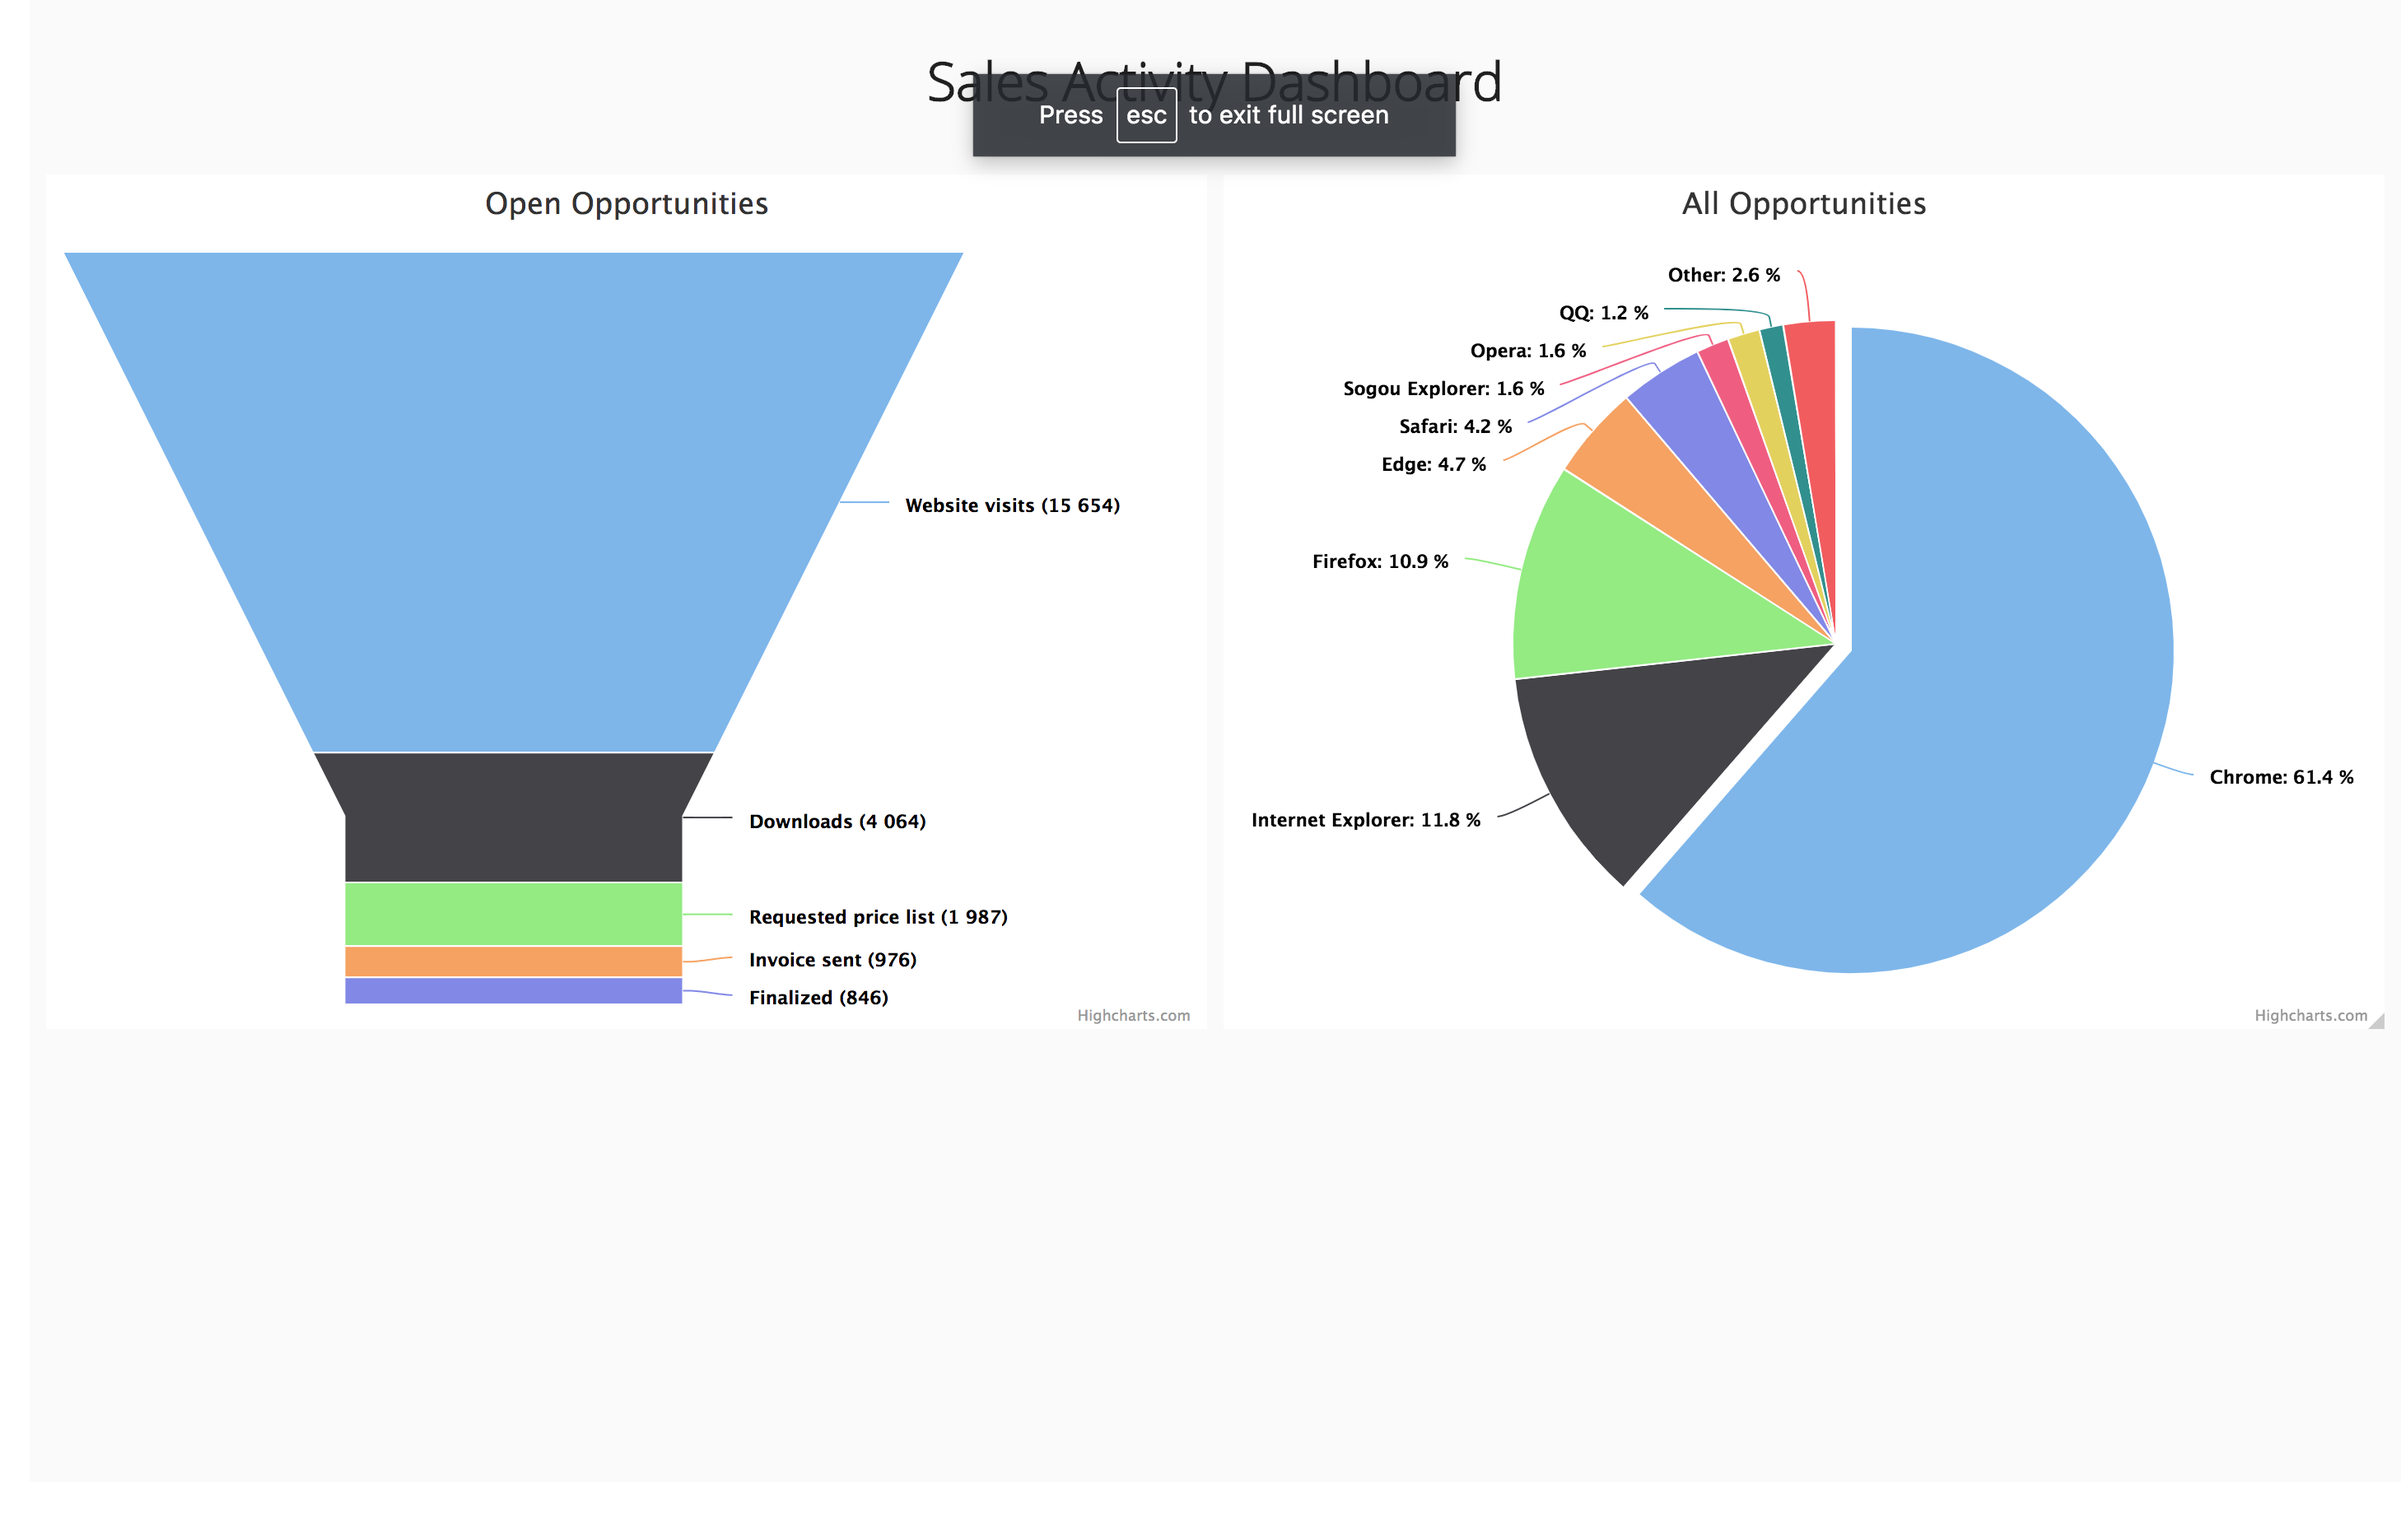
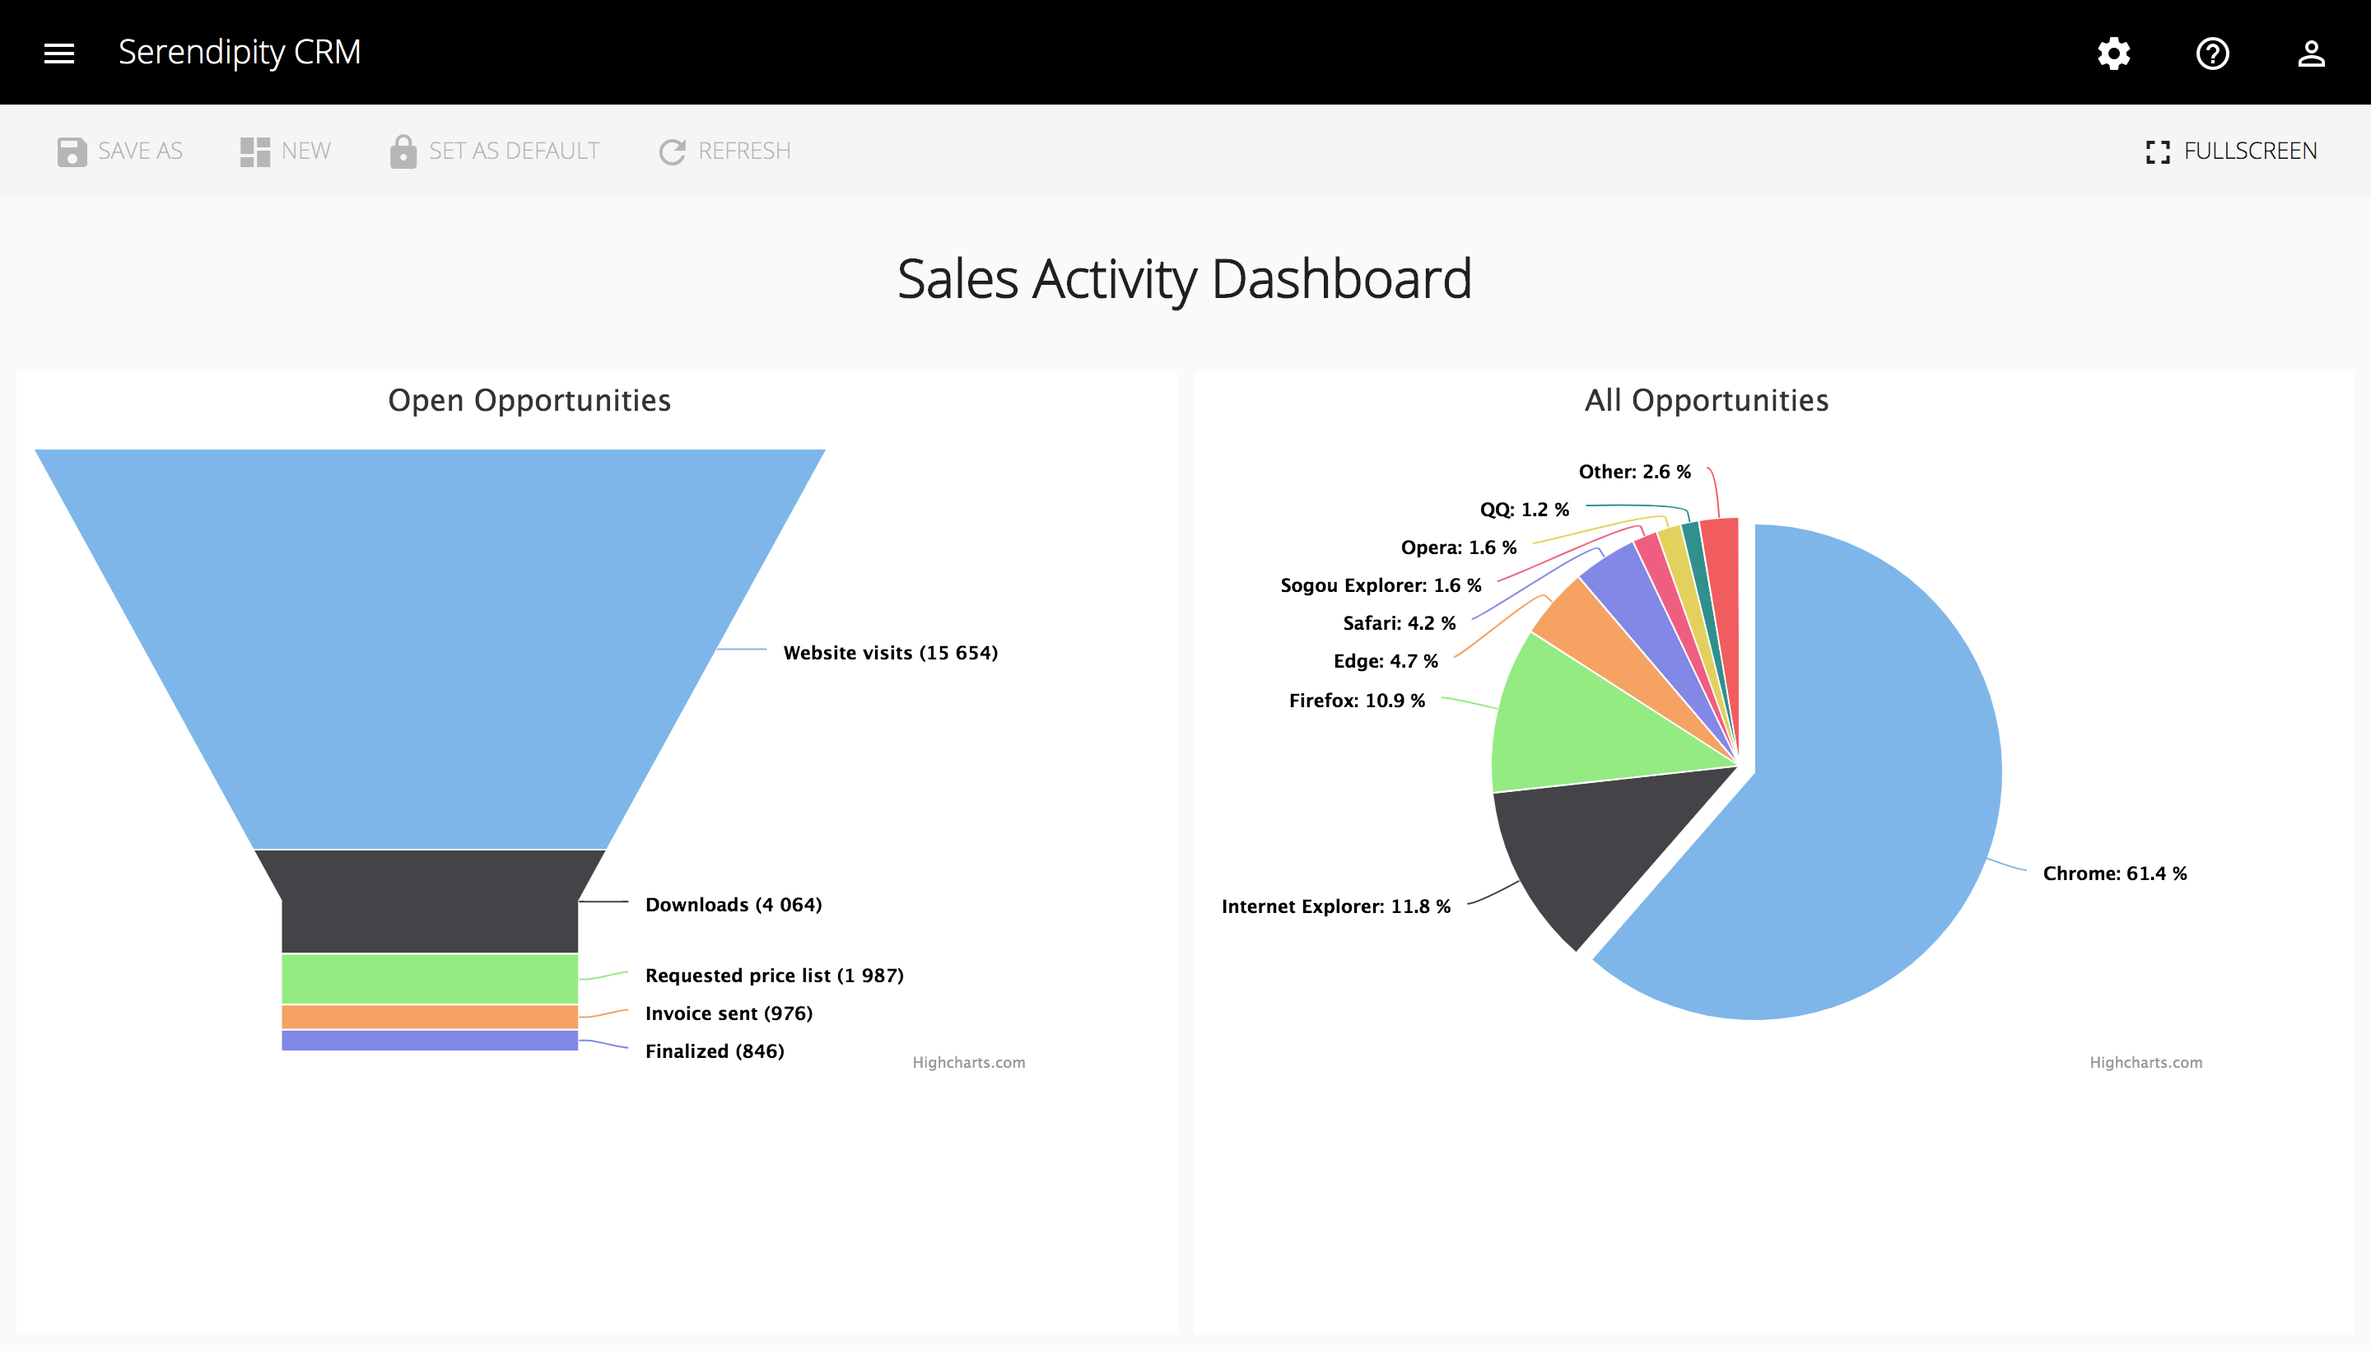
Updated the Dashboard Widgets library

diff --git a/README.md b/README.md
@@ -48,10 +48,16 @@ Contact:
   <img src="https://github.com/Robinyo/serendipity/blob/master/screen-shots/contact.png">
 </p>
 
-Dashboards:
+Sales Activity Dashboard:
 
 <p align="center">
   <img src="https://github.com/Robinyo/serendipity/blob/master/screen-shots/sales-activity-dashboard.png">
+</p>
+
+Sales Activity Dashboard - Fullscreen:
+
+<p align="center">
+  <img src="https://github.com/Robinyo/serendipity/blob/master/screen-shots/sales-activity-dashboard-fullscreen.png">
 </p>
 
 Serendipity is a [progressive web application](https://developers.google.com/web/progressive-web-apps/) (PWA) with a RESTful API that can be hosted on premise or in the cloud.
